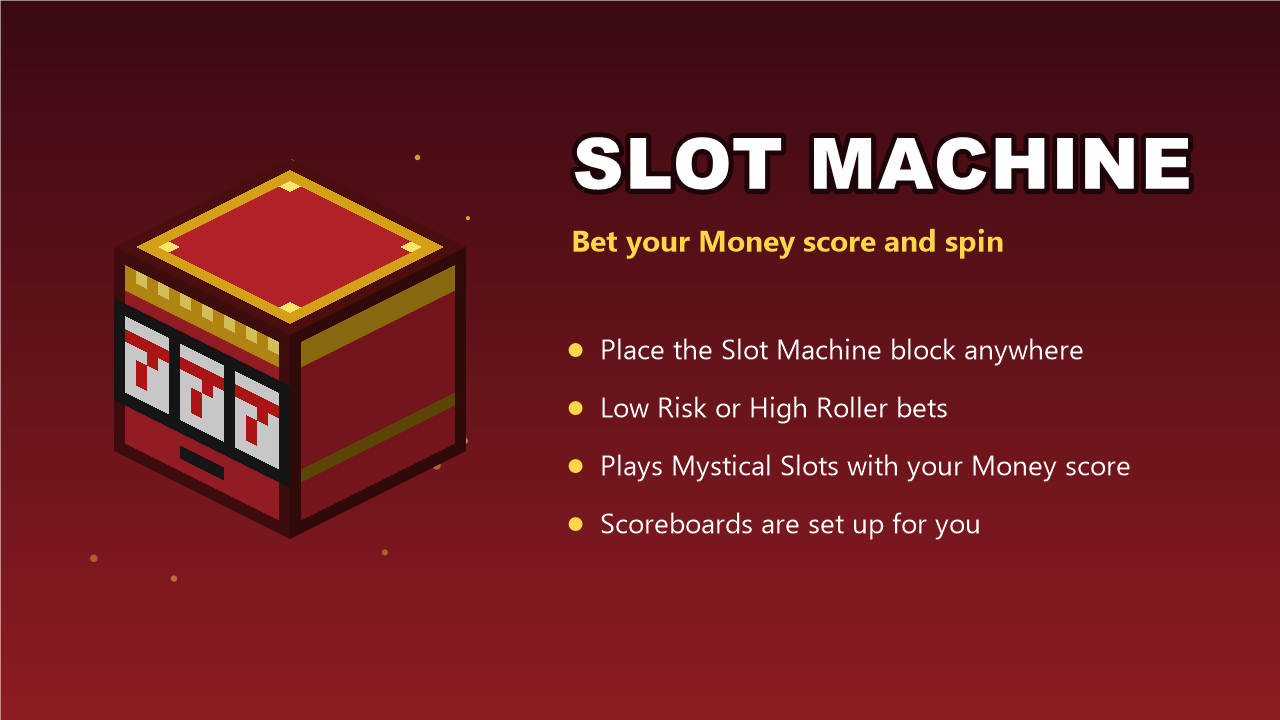
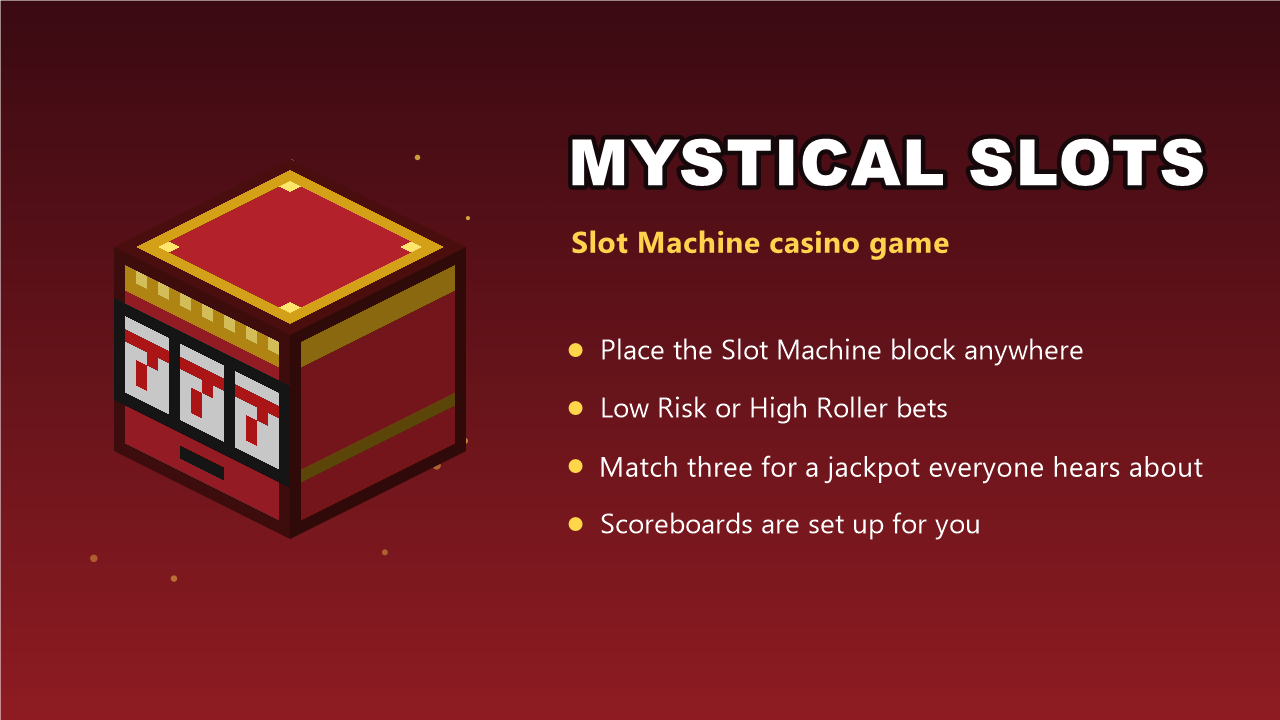
Rename to Mystical Slots
The add-on is now called Mystical Slots, its original name. Pack names, pack folders, README, CurseForge listing (title "Mystical Slots: Slot Machine Casino Game", slug mystical-slots) and promo images are updated. The block is still called Slot Machine, and the pack UUIDs are unchanged, so existing worlds keep working.

Changed region(s): [[0.4375, 0.1833, 0.9688, 0.275], [0.4375, 0.3056, 0.7812, 0.3667], [0.4688, 0.6111, 0.9375, 0.6722]]

diff --git a/listing/curseforge.md b/listing/curseforge.md
@@ -1,11 +1,11 @@
-# CurseForge listing: Slot Machine
+# CurseForge listing: Mystical Slots
 
 Paste these into the CurseForge Authors Console. Once the project is approved, CurseForge syncs it to MCPEDL.
 
 ## Project
 
-- **Name:** Slot Machine: Gamble Your Server's Money
-- **Slug:** `slot-machine` (new project, so any free slug works)
+- **Name:** Mystical Slots: Slot Machine Casino Game
+- **Slug:** `mystical-slots` (new project, so any free slug works)
 - **Summary:** A Slot Machine block for servers and Realms: bet from your Money score on Low Risk or High Roller spins and hit the jackpot.
 - **Class:** Minecraft Bedrock, Addons
 - **Project Distribution** (License section): allow third-party distribution, or it won't show on MCPEDL
@@ -30,8 +30,8 @@ Prefer command blocks? `/function slots_low_risk_bet` and `/function slots_high_
 ### Installation
 
 1. Download the .mcaddon and open it. Minecraft imports both packs.
-2. Create or edit a world and turn on the Slot Machine behavior pack (the resource pack is added with it). No experiments needed.
-3. Don't use it alongside Coberto's Utilities, which already includes the Slot Machine.
+2. Create or edit a world and turn on the Mystical Slots behavior pack (the resource pack is added with it). No experiments needed.
+3. Don't use it alongside Coberto's Utilities, which already includes Mystical Slots.
 
 ### Supported Minecraft versions
 
@@ -45,8 +45,8 @@ Prefer command blocks? `/function slots_low_risk_bet` and `/function slots_high_
 
 ## File
 
-- **File:** `builds\Slot-Machine-2.0.0.mcaddon`
-- **Display name:** Slot Machine 2.0.0
+- **File:** `builds\Mystical-Slots-2.0.0.mcaddon`
+- **Display name:** Mystical Slots 2.0.0
 - **Release type:** Release
 - **Game versions:** 1.26.60 and newer
 - **Changelog:**

diff --git a/README.md b/README.md
@@ -1,6 +1,6 @@
-# slot-machine
+# mystical-slots
 
-**Slot Machine** is a Minecraft Bedrock add-on that adds a **Slot Machine** block (in the creative inventory under Items). Use it to open the Mystical Slots menu and bet from your `Money` scoreboard score:
+**Mystical Slots** is a Minecraft Bedrock add-on that adds a **Slot Machine** block (in the creative inventory under Items). Use it to open the Mystical Slots menu and bet from your `Money` scoreboard score:
 
 | Bet | Cost | Match two | Match three (jackpot) |
 | --- | --- | --- | --- |
@@ -15,7 +15,7 @@ No experimental toggles needed. It uses only stable Script API features (`@minec
 
 ## Also in Coberto's Utilities
 
-The same slot machine is part of [Coberto's Utilities](https://github.com/TheCoberto/coberto-utilities). Install one or the other, not both. Edit the slot machine files here; Coberto's Utilities copies them with `sync.ps1` (its `sync.json` lists them):
+Mystical Slots is also part of [Coberto's Utilities](https://github.com/TheCoberto/coberto-utilities). Install one or the other, not both. Edit the slot machine files here; Coberto's Utilities copies them with `sync.ps1` (its `sync.json` lists them):
 - `blocks/slot_machine.json`, `scripts/slot_machine.js` and the `functions/slots_*.mcfunction` files
 - `blocks.json`, `textures/terrain_texture.json` (apart from `resource_pack_name`), `textures/blocks/slot_machine_*.png` and the `tile.coberto:slot_machine.name` line in `texts/en_US.lang`
 
